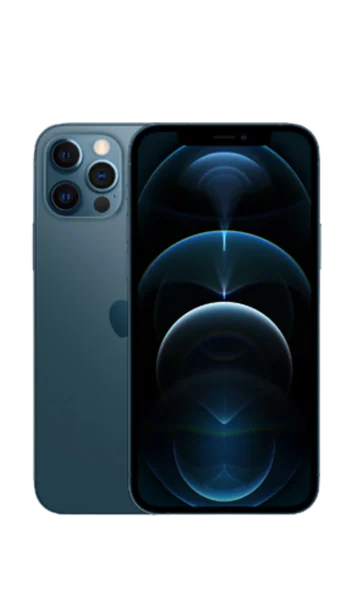
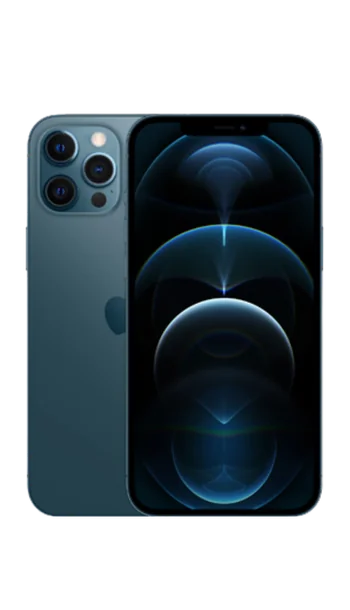
v1.1: imágenes propias del iPhone 12 Pro Max
Claude-Session: https://claude.ai/code/session_01T8bAe4Z7w5hoWuiY5mK5Vw

diff --git a/assets/js/datos/predeterminadas.js b/assets/js/datos/predeterminadas.js
@@ -26,7 +26,7 @@ export const IMAGENES_PREDETERMINADAS = {
   // cada uno: el primero quedó en el 12 y el segundo en el 12 mini.
   "iphone-12": { "Blanco": "blanco", "Negro": "negro", "Morado": "morado", "(PRODUCT)RED": "product-red", "Azul": "azul", "Verde": "verde" },
   "iphone-12-mini": { "Blanco": "blanco", "Negro": "negro", "Morado": "morado", "(PRODUCT)RED": "product-red", "Azul": "azul", "Verde": "verde" },
-  // 12 Pro y 12 Pro Max: las mismas imágenes hasta que Jared pase las del Pro Max.
+  // 12 Pro y 12 Pro Max: cada uno con sus imágenes (las del Pro Max se ven más grandes).
   "iphone-12-pro": { "Grafito": "grafito", "Azul pacífico": "azul-pacifico", "Oro": "oro", "Plata": "plata" },
   "iphone-12-pro-max": { "Grafito": "grafito", "Azul pacífico": "azul-pacifico", "Oro": "oro", "Plata": "plata" },
   "iphone-se-2": { "Negro": "negro", "(PRODUCT)RED": "product-red", "Blanco": "blanco" },

diff --git a/DOCUMENTACION.md b/DOCUMENTACION.md
@@ -1564,7 +1564,7 @@ CORREOS_IDIOMA=pt BIN=… bash tests/supabase-local/levantar.sh   # con los corr
 - [ ] **Fuentes legales que no se pudieron abrir** desde el entorno: se verificaron con el buscador y, desde el 22/10/2026, con los informes de Gemini Deep Research que pasó Jared (citas revisadas por coherencia, no contra el original). Ver `legal/FUENTES.md`. Queda para el abogado: la Ley 2300 (franjas, con fuentes secundarias) y si el radicado de PQR con respuesta por WhatsApp o correo cumple con el "seguimiento" (fuente 17).
 - [ ] **Cookies del script de seguimiento externo de GHL:** no se verificaron; si se activa, agregarlo a la Política de cookies.
 - [ ] Probar en GHL los campos de consentimiento y la guía de la sección 12.3.
-- [ ] **Imágenes predeterminadas (v1.1):** Jared las pasa de a 5. Van 71 de 182 combinaciones de modelo y color. Completos: iPhone 7, 7 Plus, 8, 8 Plus, X, XS, XS Max, XR, 11, 11 Pro, 11 Pro Max, SE (2.ª generación), 12, 12 mini, 12 Pro y 12 Pro Max (estos dos con las mismas imágenes). XS y XS Max: Gris espacial (cada uno con su imagen), Oro y Plata (la misma en los dos). Plata lleva la marca de agua de otra empresa: Jared decidió dejarla así. 12 y 12 mini: cada uno con su juego de imágenes (Jared pasó uno para cada uno). La lista exacta está en `IMAGENES_PREDETERMINADAS` (`assets/js/datos/predeterminadas.js`). El proceso para cada tanda está en la sección 5 de `AI_HANDOFF.md`.
+- [ ] **Imágenes predeterminadas (v1.1):** Jared las pasa de a 5. Van 71 de 182 combinaciones de modelo y color. Completos: iPhone 7, 7 Plus, 8, 8 Plus, X, XS, XS Max, XR, 11, 11 Pro, 11 Pro Max, SE (2.ª generación), 12, 12 mini, 12 Pro y 12 Pro Max (cada uno con sus imágenes). XS y XS Max: Gris espacial (cada uno con su imagen), Oro y Plata (la misma en los dos). Plata lleva la marca de agua de otra empresa: Jared decidió dejarla así. 12 y 12 mini: cada uno con su juego de imágenes (Jared pasó uno para cada uno). La lista exacta está en `IMAGENES_PREDETERMINADAS` (`assets/js/datos/predeterminadas.js`). El proceso para cada tanda está en la sección 5 de `AI_HANDOFF.md`.
 - [ ] Que el abogado confirme si publicar capturas de clientes (aun tapadas) necesita autorización por escrito, y si alcanza con lo que guarda el panel desde `0034` (canal, fecha y alcance de la autorización, sin datos de la persona; el mensaje o el documento lo guarda la tienda por fuera).
 - [ ] **Reseñas de antes de `0034`:** quedan "sin registrar" hasta que la tienda complete la autorización en su fila. Se siguen mostrando en el sitio mientras tanto.
 - [x] ~~Confirmar los nombres del catálogo~~: confirmados con las fichas de soporte de Apple en español (informes de Gemini, 22/10/2026). Apple anunció el 17e, 18 Pro, 18 Pro Max y Duo.
@@ -1632,6 +1632,12 @@ Otros LLM o herramientas que no ejecuten hooks deben seguir la misma regla a man
 ## 19. Registro de cambios
 
 > La entrada más nueva va arriba. Formato: **fecha · título** — pedido → qué se hizo → archivos → verificación.
+
+### 23/10/2026 · v1.1: imágenes propias del iPhone 12 Pro Max (71 de 182)
+
+- **Pedido de Jared:** 4 imágenes más (75 a 78).
+- **Hecho:** son del 12 Pro Max: el teléfono ocupa más en el mismo cuadro de 350 × 610 (298 × 403 px contra 290 × 394 del 12 Pro). 75 Oro, 76 Plata, 77 Grafito y 78 Azul pacífico reemplazan las que compartía con el 12 Pro. La cuenta no cambia.
+- **Verificación:** `node tests/documentacion.mjs` OK, todos los archivos del mapa existen, y en `tests/verificar.cjs` pasan el caso "v1.1: imágenes" y el 11 (sin marca).
 
 ### 23/10/2026 · v1.1: iPhone 12 Pro y 12 Pro Max (71 de 182)
 

diff --git a/AI_HANDOFF.md b/AI_HANDOFF.md
@@ -210,7 +210,7 @@ No hay tests fallando ni configuraciones a medias. El código actual funciona y 
       5. Correr el caso "v1.1: imágenes" y el 11 (sin marca) de `verificar.cjs`.
       6. Actualizar en `DOCUMENTACION.md` la cuenta de la sección 17 ("Van N de 182") y la entrada de la 19.
       7. Commit y push.
-    - **Cargadas hasta ahora (71 de 182; 12 Pro y 12 Pro Max con Grafito, Azul pacífico, Oro y Plata, las mismas en los dos hasta que Jared pase las del Pro Max; el 12 y el 12 mini están completos y cada uno tiene su juego de imágenes (el del 12 mini: imágenes 64 a 66, 68, 69 y 70); ver el detalle en la sección 17 de `DOCUMENTACION.md`):** 12 y 12 mini con Blanco, Negro, Morado y (PRODUCT)RED, las mismas imágenes en los dos. La imagen 57 era del XS (lo confirmó Jared): reemplazó la del XS en Gris espacial; el XS Max conserva la anterior. Antes: completos el iPhone 7, 7 Plus, 8, 8 Plus, X, XR, 11, 11 Pro, 11 Pro Max y SE (2.ª generación); XS y XS Max completos: Gris espacial (cada uno el suyo), Oro y Plata (la misma en los dos). Plata lleva la marca de agua "Swappie": Jared decidió dejarla (23/10/2026). **Fuera de esa decisión, no cargar imágenes con marcas de agua de terceros sin preguntarle.** Criterio: si dos modelos se ven iguales y solo cambia el tamaño (Pro y Pro Max, por ejemplo), la misma imagen va en los dos y se le avisa a Jared.
+    - **Cargadas hasta ahora (71 de 182; 12 Pro y 12 Pro Max completos, cada uno con sus imágenes (el Pro Max: 75 a 78; se distingue porque el teléfono ocupa más en el cuadro); el 12 y el 12 mini están completos y cada uno tiene su juego de imágenes (el del 12 mini: imágenes 64 a 66, 68, 69 y 70); ver el detalle en la sección 17 de `DOCUMENTACION.md`):** 12 y 12 mini con Blanco, Negro, Morado y (PRODUCT)RED, las mismas imágenes en los dos. La imagen 57 era del XS (lo confirmó Jared): reemplazó la del XS en Gris espacial; el XS Max conserva la anterior. Antes: completos el iPhone 7, 7 Plus, 8, 8 Plus, X, XR, 11, 11 Pro, 11 Pro Max y SE (2.ª generación); XS y XS Max completos: Gris espacial (cada uno el suyo), Oro y Plata (la misma en los dos). Plata lleva la marca de agua "Swappie": Jared decidió dejarla (23/10/2026). **Fuera de esa decisión, no cargar imágenes con marcas de agua de terceros sin preguntarle.** Criterio: si dos modelos se ven iguales y solo cambia el tamaño (Pro y Pro Max, por ejemplo), la misma imagen va en los dos y se le avisa a Jared.
     - **Mecanismo** (ya hecho; no cambia por tanda):
       - En `equipos.fotos` va la ruta `predeterminadas/<slug>/<archivo>.webp`.
       - `urlArchivo()` (demo y Supabase) la sirve desde el sitio y `borrarArchivos()` no la borra.
